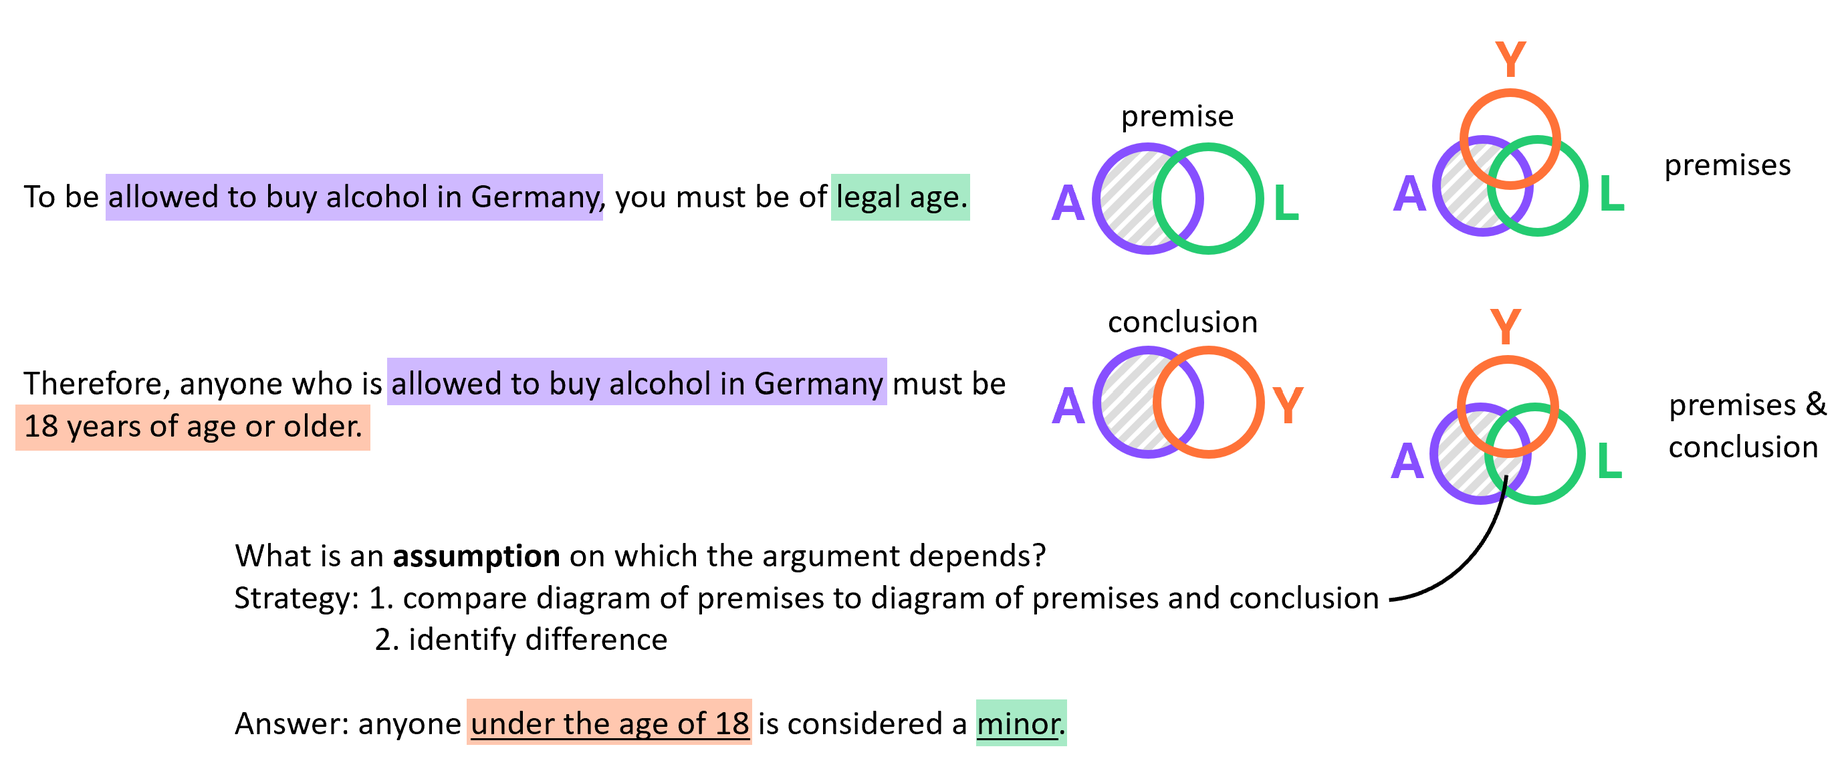
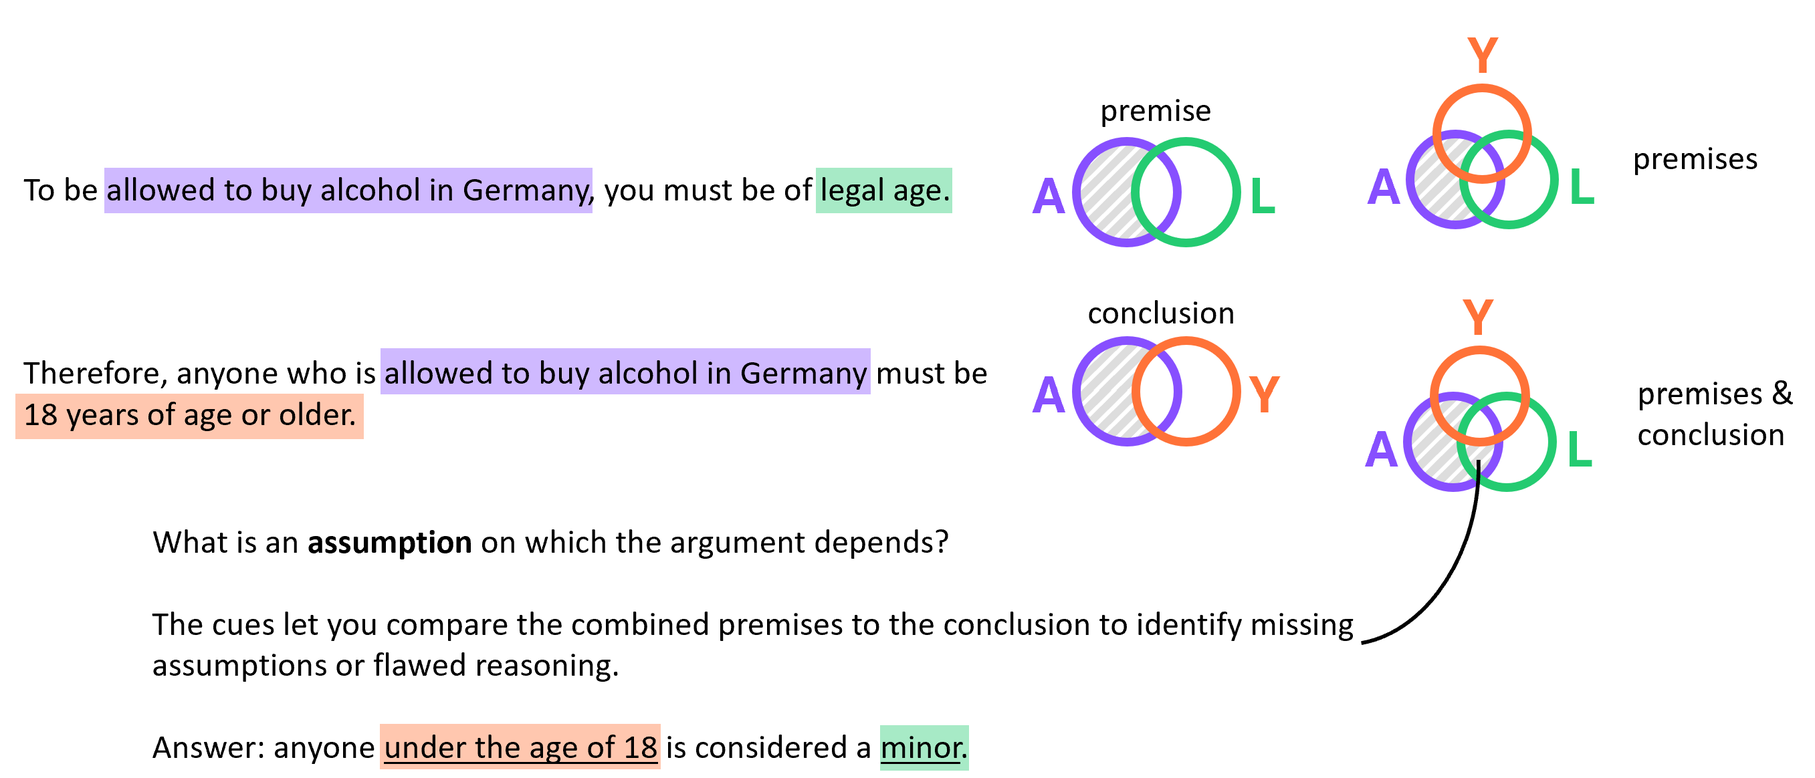
make terminology consistent

diff --git a/src/public/as-venn-study-part-1/assets/VennTask.tsx b/src/public/as-venn-study-part-1/assets/VennTask.tsx
@@ -436,7 +436,7 @@ function VennTask({ parameters, setAnswer }: StimulusParams<any>) {
             </div>
             {/* Controls */}
             <div className="vp-controls" style={{ display: "flex", marginBottom: "20px", gap }}>
-                Remember to look at the hint!
+                Remember to look at the cue!
                 <button
                     type="button"
                     className="vp-btn-hint"
@@ -444,7 +444,7 @@ function VennTask({ parameters, setAnswer }: StimulusParams<any>) {
                     disabled={!canHint}
                     aria-disabled={!canHint}
                 >
-                    Hint
+                    Cue
                 </button>
                 <button
                     type="button"

diff --git a/src/public/as-euler-study-part-1/assets/EulerTask.tsx b/src/public/as-euler-study-part-1/assets/EulerTask.tsx
@@ -338,6 +338,7 @@ function EulerTask({ parameters, setAnswer }: StimulusParams<any>) {
             </div>
             {/* Controls */}
             <div className="vp-controls" style={{ display: "flex", marginBottom: "20px", gap }}>
+                Remember to look at the cue!
                 <button
                     type="button"
                     className="vp-btn-hint"
@@ -345,7 +346,7 @@ function EulerTask({ parameters, setAnswer }: StimulusParams<any>) {
                     disabled={!canHint}
                     aria-disabled={!canHint}
                 >
-                    Hint
+                    Cue
                 </button>
                 <button
                     type="button"

diff --git a/public/as-venn-study-part-1/assets/tutorial2.md b/public/as-venn-study-part-1/assets/tutorial2.md
@@ -4,18 +4,20 @@ All tasks include visual cues to help you find the solution. Each cue offers sup
 
 ##### First Cue: Highlighting
 
-The first type of clue is the color coding of the task text. The "if" and "then" parts of the premises and the conclusion are highlighted in color. If two parts are highlighted in the same color, they are either the same statements or a statement and its negation. An example:
+The first type of cue is the color coding of the task text. The "if" and "then" parts of the premises and the conclusion are highlighted in color. If two parts are highlighted in the same color, they are either the same statements or a statement and its negation. In case an if-part or then-part is negated, the corresponding text is <ins>underlined</ins>. An example:
 
 "To be <mark style="background-color: #874fff88">allowed to buy alcohol in Germany</mark>, you must <mark style="background-color: #24CB7188">be of legal age</mark>. Anyone <ins><mark style="background-color: #FF723788">under the age of 18</mark></ins> is considered a <ins><mark style="background-color: #24CB7188">minor</mark></ins>. Anyone who is <mark style="background-color: #874fff88">allowed to buy alcohol in Germany</mark> must be <mark style="background-color: #FF723788">18 years of age or older</mark>."
 
-This cue is intended to help you reliably identify the if-then form of declarative sentences, even in cases where negations are present. In case an if-part or then-part is negated, the corresponding text is <ins>underlined</ins>.
+*Why is this important?* This cue is intended to help you reliably identify the if-then form of conditional sentences, even in cases where negations are present. 
 
-##### Second Cue: Venn Diagrams
+##### Second Cue: Venn Diagrams of Conditionals
 
-The second type of cue consists of set diagrams, which are displayed next to the text in addition to the color coding. Each premise and conclusion has its own set diagram. It shows the "if" part and the "then" part of the conditional as two sets. If an area is shaded, it means that the situations contained within that subset cannot exist. The shading (hatched area) indicates that the "if" part of the conditional must lie exactly in the intersection and must therefore be a subset of the "then" part. These diagrams are also called Venn diagrams.
+The second type of cue consists of set diagrams, which are displayed next to the text in addition to the color coding. Each premise and conclusion has its own set diagram. It shows the "if" part of the conditional as a set that is contained in the set of the "then" part by representing the conditional as two intersecting sets and shading (hatching) the area of the "if" part. These diagrams are also called Venn diagrams. 
 
 An example: The following Venn diagram is displayed for the conditional "To be <mark style="background-color: #874fff88">allowed to buy alcohol in Germany</mark>, you must <mark style="background-color: #24CB7188">be of legal age</mark>":
 
 <img src="./assets/venn2_example.png" width="auto" height="200px">
 
-The logical relationship is illustrated as a set relationship: The shading makes it clear that there can be no one who is allowed to buy alcohol but is not of legal age. It is also said that legal age is a necessary condition for purchasing alcohol. There may be further restrictions. For example, you must not be legally incapacitated. Conversely, being allowed to purchase alcohol is a sufficient condition for inferring legal age. Visualizing logical relationships using set diagrams should help to avoid confusing sufficient and necessary conditions.
+If an area is shaded, it means that the situations contained within that subset cannot exist. In the example, the shading makes it clear that there can be no one who is allowed to buy alcohol but is not of legal age. It is also said that legal age is a necessary condition for purchasing alcohol. There may be further restrictions. For example, you must not be legally incapacitated. Conversely, being allowed to purchase alcohol is a sufficient condition for inferring legal age.
+
+*Why is this important?* This cue is intended to help avoiding confusing sufficient and necessary conditions.

diff --git a/public/as-euler-study-part-1/assets/tutorial1.md b/public/as-euler-study-part-1/assets/tutorial1.md
@@ -4,6 +4,8 @@ The aim of this study is to investigate how graphical cues support the solving o
 
 #### The Logical Structure of an Argument
 
-The tasks consist of several statements in the conditional form. This means that they can be expressed in the if-then form. An example: "If it rains, the street will get wet." Note that the words "if" and "then" do not necessarily have to appear in the sentence. The sentence "To be allowed to buy alcohol, you must be of legal age" in if-then form is "If you are allowed to buy alcohol, then you must be of legal age."  For example: "Anyone who is not of legal age is not allowed to buy alcohol." It should also be noted that negations can occur in both the if part and the then part. For example: "Anyone who is not of legal age is not allowed to buy alcohol." or “Anyone who is underage is not allowed to buy alcohol."
+The tasks consist of several statements that form conditionals. This means that they can be expressed in the if-then form. An example: "If it rains, the street will get wet." Note that the words "if" and "then" do not necessarily have to appear in the sentence. The sentence "To be allowed to buy alcohol, you must be of legal age" in if-then form is "If you are allowed to buy alcohol, then you must be of legal age." It should also be noted that negations can occur in both the if part and the then part. For example: "Anyone who is not of legal age is not allowed to buy alcohol." or “Anyone who is underage is not allowed to buy alcohol."
 
-In a logical inference, several statements in conditional form work together. For example, from the two conditionals "When it rains, the road gets wet" and "When the road is wet, you have to drive slower," we can conclude "When it rains, you have to drive slower." The given statements are called premises, and the inferred statement is called the conclusion. Another example: From the premises "You must be of legal age to buy alcohol. Anyone under the age of 18 is not of legal age in Germany," we can conclude that "Anyone who is 18 years of age or older may buy alcohol in Germany."
+In a logical inference, several statements in conditional form work together. For example, from the two conditionals "When it rains, the road gets wet" and "When the road is wet, you have to drive slower", we can conclude "When it rains, you have to drive slower." The given statements are called premises, and the inferred statement is called the conclusion. Another example: From the premises "You must be of legal age to buy alcohol. Anyone under the age of 18 is not of legal age in Germany," we can conclude that "Anyone who is 18 years of age or older may buy alcohol in Germany."
+
+Each task consists of text passage, the (1) **context**, that describes the premises of an argument, the **question** and (3) four **answer options**. The cues are intended to help you understand the logical inference of the argument.

diff --git a/public/as-venn-study-part-1/assets/tutorial1.md b/public/as-venn-study-part-1/assets/tutorial1.md
@@ -4,6 +4,8 @@ The aim of this study is to investigate how graphical cues support the solving o
 
 #### The Logical Structure of an Argument
 
-The tasks consist of several statements in the conditional form. This means that they can be expressed in the if-then form. An example: "If it rains, the street will get wet." Note that the words "if" and "then" do not necessarily have to appear in the sentence. The sentence "To be allowed to buy alcohol, you must be of legal age" in if-then form is "If you are allowed to buy alcohol, then you must be of legal age."  For example: "Anyone who is not of legal age is not allowed to buy alcohol." It should also be noted that negations can occur in both the if part and the then part. For example: "Anyone who is not of legal age is not allowed to buy alcohol." or “Anyone who is underage is not allowed to buy alcohol."
+The tasks consist of several statements that form conditionals. This means that they can be expressed in the if-then form. An example: "If it rains, the street will get wet." Note that the words "if" and "then" do not necessarily have to appear in the sentence. The sentence "To be allowed to buy alcohol, you must be of legal age" in if-then form is "If you are allowed to buy alcohol, then you must be of legal age." It should also be noted that negations can occur in both the if part and the then part. For example: "Anyone who is not of legal age is not allowed to buy alcohol." or “Anyone who is underage is not allowed to buy alcohol."
 
-In a logical inference, several statements in conditional form work together. For example, from the two conditionals "When it rains, the road gets wet" and "When the road is wet, you have to drive slower," we can conclude "When it rains, you have to drive slower." The given statements are called premises, and the inferred statement is called the conclusion. Another example: From the premises "You must be of legal age to buy alcohol. Anyone under the age of 18 is not of legal age in Germany," we can conclude that "Anyone who is 18 years of age or older may buy alcohol in Germany."
+In a logical inference, several statements in conditional form work together. For example, from the two conditionals "When it rains, the road gets wet" and "When the road is wet, you have to drive slower", we can conclude "When it rains, you have to drive slower." The given statements are called premises, and the inferred statement is called the conclusion. Another example: From the premises "You must be of legal age to buy alcohol. Anyone under the age of 18 is not of legal age in Germany," we can conclude that "Anyone who is 18 years of age or older may buy alcohol in Germany."
+
+Each task consists of text passage, the (1) **context**, that describes the premises of an argument, the **question** and (3) four **answer options**. The cues are intended to help you understand the logical inference of the argument.

diff --git a/public/as-baseline-study-part-1/assets/tutorial1.md b/public/as-baseline-study-part-1/assets/tutorial1.md
@@ -4,6 +4,8 @@ The aim of this study is to investigate how we solve logical reasoning tasks. Th
 
 #### The Logical Structure of an Argument
 
-The tasks consist of several statements in the conditional form. This means that they can be expressed in the if-then form. An example: "If it rains, the street will get wet." Note that the words "if" and "then" do not necessarily have to appear in the sentence. The sentence "To be allowed to buy alcohol, you must be of legal age" in if-then form is "If you are allowed to buy alcohol, then you must be of legal age."  For example: "Anyone who is not of legal age is not allowed to buy alcohol." It should also be noted that negations can occur in both the if part and the then part. For example: "Anyone who is not of legal age is not allowed to buy alcohol." or “Anyone who is underage is not allowed to buy alcohol."
+The tasks consist of several statements that form conditionals. This means that they can be expressed in the if-then form. An example: "If it rains, the street will get wet." Note that the words "if" and "then" do not necessarily have to appear in the sentence. The sentence "To be allowed to buy alcohol, you must be of legal age" in if-then form is "If you are allowed to buy alcohol, then you must be of legal age." It should also be noted that negations can occur in both the if part and the then part. For example: "Anyone who is not of legal age is not allowed to buy alcohol." or “Anyone who is underage is not allowed to buy alcohol."
 
-In a logical inference, several statements in conditional form work together. For example, from the two conditionals "When it rains, the road gets wet" and "When the road is wet, you have to drive slower," we can conclude "When it rains, you have to drive slower." The given statements are called premises, and the inferred statement is called the conclusion. Another example: From the premises "You must be of legal age to buy alcohol. Anyone under the age of 18 is not of legal age in Germany," we can conclude that "Anyone who is 18 years of age or older may buy alcohol in Germany."
+In a logical inference, several statements in conditional form work together. For example, from the two conditionals "When it rains, the road gets wet" and "When the road is wet, you have to drive slower", we can conclude "When it rains, you have to drive slower." The given statements are called premises, and the inferred statement is called the conclusion. Another example: From the premises "You must be of legal age to buy alcohol. Anyone under the age of 18 is not of legal age in Germany," we can conclude that "Anyone who is 18 years of age or older may buy alcohol in Germany."
+
+Each task consists of text passage, the (1) **context**, that describes the premises of an argument, the **question** and (3) four **answer options**. 

diff --git a/public/as-euler-study-part-1/assets/tutorial2.md b/public/as-euler-study-part-1/assets/tutorial2.md
@@ -4,11 +4,11 @@ All tasks include visual cues to help you find the solution. Each cue offers sup
 
 ##### First Cue: Highlighting
 
-The first type of clue is the color coding of the task text. The "if" and "then" parts of the premises and the conclusion are highlighted in color. If two parts are highlighted in the same color, they are either the same statements or a statement and its negation. An example:
+The first type of clue is the color coding of the task text. The "if" and "then" parts of the premises and the conclusion are highlighted in color. If two parts are highlighted in the same color, they are either the same statements or a statement and its negation. In case an if-part or then-part is negated, the corresponding text is <ins>underlined</ins>. An example:
 
 "To be <mark style="background-color: #874fff88">allowed to buy alcohol in Germany</mark>, you must <mark style="background-color: #24CB7188">be of legal age</mark>. Anyone <ins><mark style="background-color: #FF723788">under the age of 18</mark></ins> is considered a <ins><mark style="background-color: #24CB7188">minor</mark></ins>. Anyone who is <mark style="background-color: #874fff88">allowed to buy alcohol in Germany</mark> must be <mark style="background-color: #FF723788">18 years of age or older</mark>."
 
-This cue is intended to help you reliably identify the if-then form of declarative sentences, even in cases where negations are present. In case an if-part or then-part is negated, the corresponding text is <ins>underlined</ins>.
+*Why is this important?* This cue is intended to help you reliably identify the if-then form of declarative sentences, even in cases where negations are present.
 
 ##### Second Cue: Euler Diagrams
 
@@ -19,3 +19,5 @@ An example: The following Euler diagram is displayed for the conditional "To be 
 <div width="300px" style="position: center"><img src="./assets/euler_example.png" width="auto" height="150px"></div>
 
 The logical relationship is illustrated as a set relationship: People who are allowed to buy alcohol are a subset of people who are of legal age. There may be further restrictions. For example, you must not be legally incapacitated. It is also said that legal age is a necessary condition for purchasing alcohol. Conversely, being allowed to purchase alcohol is a sufficient condition for inferring legal age. Visualizing logical relationships using set diagrams should help to avoid confusing sufficient and necessary conditions.
+
+*Why is this important?* This cue is intended to help avoiding confusing sufficient and necessary conditions.

diff --git a/public/as-venn-study-part-1/assets/tutorial3.md b/public/as-venn-study-part-1/assets/tutorial3.md
@@ -1,4 +1,4 @@
-##### Second Cue: Venn Diagrams
+##### Third Cue: Venn Diagrams for Combining Premises
 
 Venn diagrams have the advantage that they can also represent a logical inference with two premises. Here is an example:
 
@@ -6,6 +6,8 @@ Venn diagrams have the advantage that they can also represent a logical inferenc
 
 <img src="./assets/venn3_example.png" width="auto" height="280px">
 
-The Venn diagram depicts the logical conditions of both premises by shading. Only the areas that are free of shading represent possible situations. It can be seen that legal age is a necessary but not sufficient condition for purchasing alcohol. Being at least 18 years old is a necessary and sufficient condition for legal age.
+The Venn diagram depicts the logical conditions of both premises by shading. Only the areas that are not shaded represent possible situations. It can be seen that legal age is a necessary but not sufficient condition for purchasing alcohol. Being at least 18 years old is a necessary and sufficient condition for legal age.
 
-The Venn diagram of the premises shows which conclusion must apply. All persons who are allowed to purchase alcohol are 18 years of age or older. The unshaded parts of set A are a subset of the unshaded parts of set Y.
+The Venn diagram of the premises shows which conclusion must apply. Only non-shaded areas correspond to valid conclusions. In the example, all persons who are allowed to purchase alcohol are 18 years of age or older. The unshaded parts of set A are a subset of the unshaded parts of set Y.
+
+*Why is this important?* This cue is intended to help understand at a glance which valid conclusions can be drawn from a set of premises.

diff --git a/public/as-euler-study-part-1/assets/tutorial5.md b/public/as-euler-study-part-1/assets/tutorial5.md
@@ -1,6 +1,6 @@
 #### Task Types
 
-Each task requires you to read and comprehend a short passage, then answer one question. Before you give your answer, **you must look at the cues** by clicking on the 'Hint' button:
+Each task requires you to read and comprehend a short passage, then answer one question. Before you give your answer, **you must look at the cues** by clicking on the 'Cue' button:
 
 <img src="./assets/hint_interface.png" width="auto" height="50px">
 
@@ -20,8 +20,8 @@ The questions require a wide range of skills involved in logical reasoning, incl
 - Detecting assumptions made by particular arguments
 - Identifying flaws in arguments
 
-All of these skills build on the ability to recognize the parts of an argument and their relationships. This is what the hints should help you with.
+All of these skills build on the ability to recognize the parts of an argument and their relationships. This is what the cues should help you with.
 
-Always look at the hint first, then decide on an answer. Do not pick a response simply because it is a true statement. Although true, it may not answer the question posed. Answer each question on the basis of the information that is given. Work within the context provided by the passage.
+Always look at the cues first, then decide on an answer. Do not pick a response simply because it is a true statement. Although true, it may not answer the question posed. Answer each question on the basis of the information that is given. Work within the context provided by the passage.
 
 By clicking 'Next' you will be presented with the first of the ten reasoning tasks you need to solve.

diff --git a/public/as-venn-study-part-1/assets/tutorial5.md b/public/as-venn-study-part-1/assets/tutorial5.md
@@ -1,6 +1,6 @@
 #### Task Types
 
-Each task requires you to read and comprehend a short passage, then answer one question. Before you give your answer, **you must look at the cues** by clicking on the 'Hint' button:
+Each task requires you to read and comprehend a short passage, then answer one question. Before you give your answer, **you must look at the cues** by clicking on the 'Cue' button:
 
 <img src="./assets/hint_interface.png" width="auto" height="50px">
 
@@ -20,8 +20,8 @@ The questions require a wide range of skills involved in logical reasoning, incl
 - Detecting assumptions made by particular arguments
 - Identifying flaws in arguments
 
-All of these skills build on the ability to recognize the parts of an argument and their relationships. This is what the hints should help you with.
+All of these skills build on the ability to recognize the parts of an argument and their relationships. This is what the cues should help you with.
 
-Always look at the hint first, then decide on an answer. Do not pick a response simply because it is a true statement. Although true, it may not answer the question posed. Answer each question on the basis of the information that is given. Work within the context provided by the passage.
+Always look at the cues first, then decide on an answer. Do not pick a response simply because it is a true statement. Although true, it may not answer the question posed. Answer each question on the basis of the information that is given. Work within the context provided by the passage.
 
 By clicking 'Next' you will be presented with the first of the ten reasoning tasks you need to solve.

diff --git a/public/as-venn-study-part-1/assets/tutorial4.md b/public/as-venn-study-part-1/assets/tutorial4.md
@@ -1,5 +1,5 @@
 ##### Solving Tasks with Visual Cues
 
-For the tasks that require you to draw conclusions, the premises of the inference will be visualized. For other tasks, the context describes incomplete or incorrect arguments and ask about required assumptions or flaws in the reasoning. In this case, the Venn diagrams will first show you only the premises of the argument and then the premises combined with the conclusion. This way you can compare the two, to see which assumptions are required. Here is an example:
+There are tasks for which the context describes incomplete or incorrect arguments consisting of one or more premises and a conclusion. The question asks about required assumptions or flaws in the reasoning. In this case, the Venn diagrams will first show you only the premises of the argument and then the premises combined with the conclusion. This way you can compare the two, to see which assumptions are required or where errors have been made. Here is an example:
 
 <img src="./assets/hint_example.png" width="auto" height="400px">

diff --git a/public/as-euler-study-part-1/assets/tutorial4.md b/public/as-euler-study-part-1/assets/tutorial4.md
@@ -1,5 +1,5 @@
 ##### Solving Tasks with Visual Cues
 
-For the tasks that require you to draw conclusions, the premises in the context will be visualized. For other tasks, the context describes incomplete or incorrect arguments and asks about required assumptions or flaws in the reasoning. In this case, the Euler diagrams will  show you the premises and the conclusion of the argument. This way you can check how they can be combined to see which assumptions are required or where errors occured. Here is an example:
+There are tasks for which the context describes incomplete or incorrect arguments consisting of one or more premises and a conclusion. The question asks about required assumptions or flaws in the reasoning. In this case, the Euler diagrams will show you the premises and the conclusion of the argument. This way you can check how they can be combined to see which assumptions are required or where errors occured. Here is an example:
 
 <img src="./assets/hint_example.png" width="auto" height="300px">
